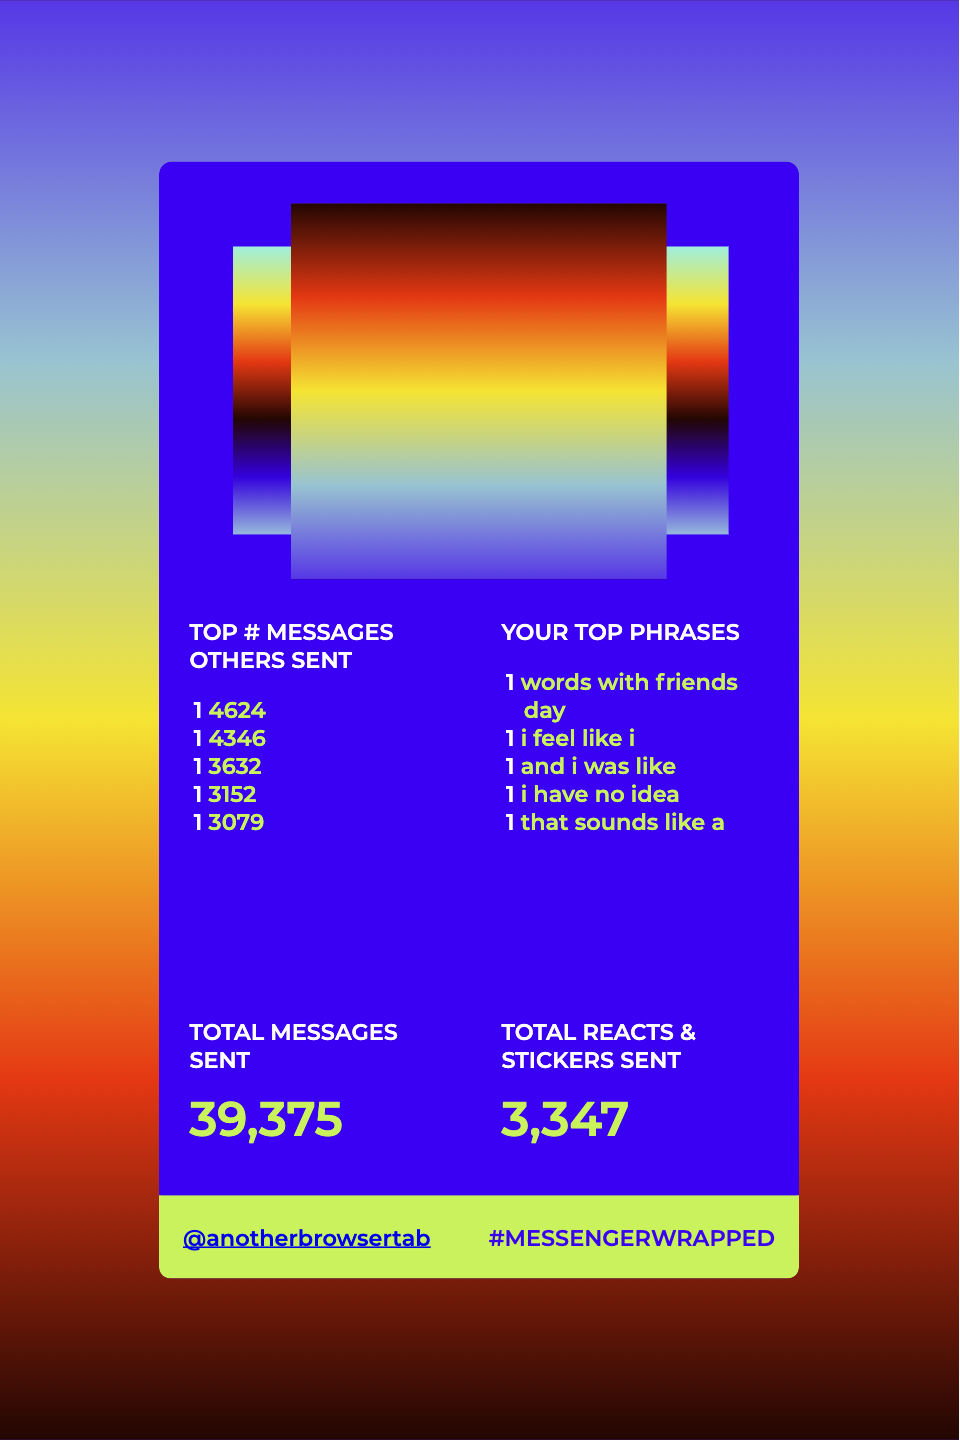
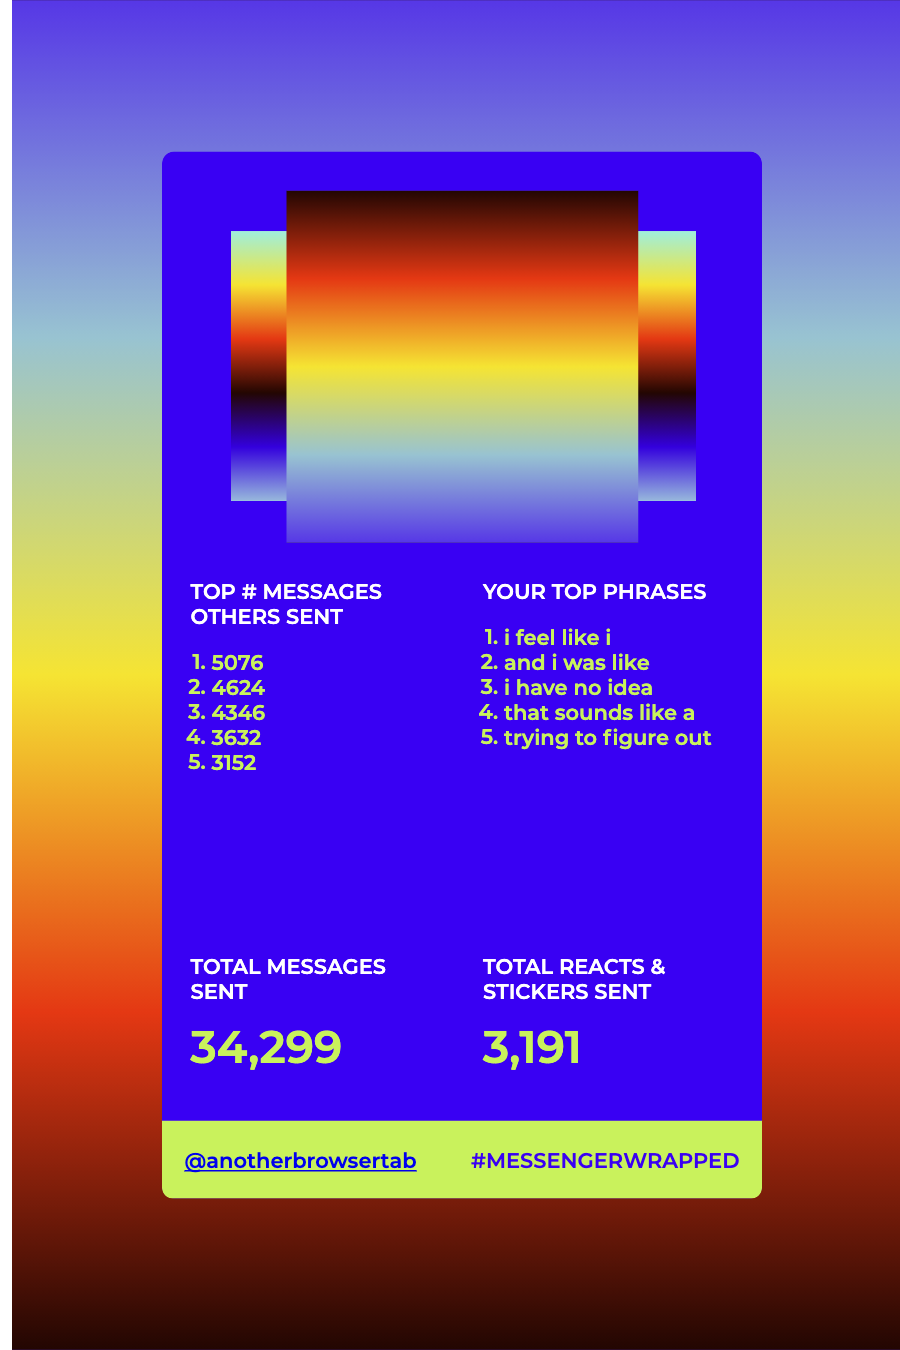
update example img and make note about the automated game messages skewing top phrases data

diff --git a/README.md b/README.md
@@ -8,6 +8,8 @@ This code is very experimental and not well tested as of early December 2020; I 
 
 ![Example output from Messenger Wrapped](./example_output.png)
 
+note: right now, the top phrases returned are often heavily skewed by automated messages from games (e.g. Words With Friends Day 1, etc)!
+
 ## To run Messenger Wrapped, you will need:
 - Python 3
 - Chrome or Firefox browser (also tested Safari, where the save image button does not work, but it is possible to view the image and then screenshot it in that browser. These are just the browsers I have tested so far!)
